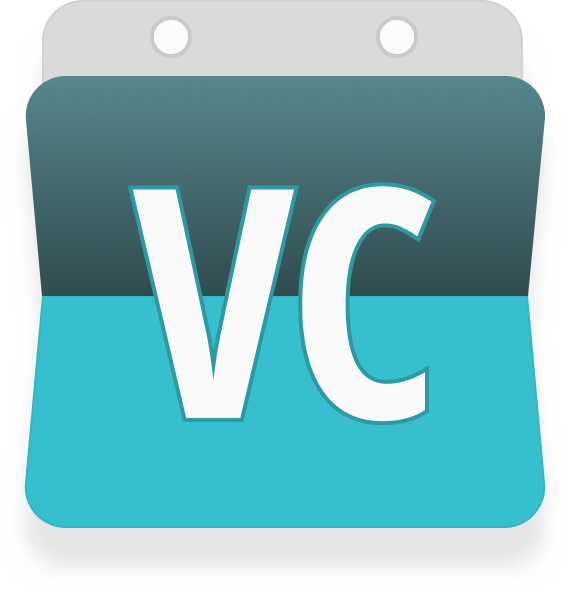
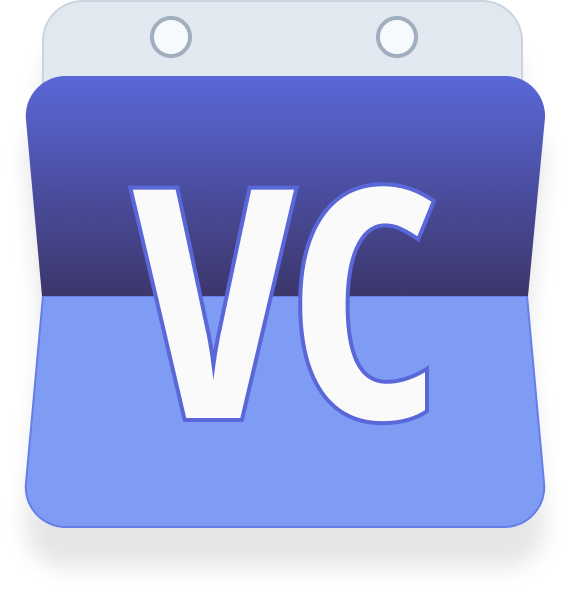
Change docs theme color to indigo.

diff --git a/docs/.vuepress/styles/tailwind.css b/docs/.vuepress/styles/tailwind.css
@@ -29,17 +29,30 @@ input[type='text'] {
   max-width: initial;
   padding: 3.6rem 0 2rem 0;
 }
+
+.site-name {
+  @apply text-indigo-700 !important;
+}
+
+.site-name:hover {
+  @apply text-indigo-500 !important;
+}
+
 .homepage .hero {
   @apply px-4;
 }
-.homepage .hero .img {
-  max-height: 240px;
+.homepage .hero img {
+  max-height: 190px !important;
 }
 
 .homepage .content {
   & div[class*='language-'] {
     @apply max-w-md mx-auto;
   }
+}
+
+.homepage .hero .action-button {
+  @apply px-6 py-2 !important;
 }
 
 .section {
@@ -65,18 +78,29 @@ ol {
   @apply list-decimal;
 }
 
-/* .sidebar-links {
-  & > li > .sidebar-link {
-  }
-} */
-
-/* .sidebar-group-items > li > .sidebar-sub-headers > .sidebar-sub-header {
-  @apply uppercase text-lg;
-} */
-
-@tailwind utilities;
-
 p {
   margin: 1rem 0;
   line-height: 1.7rem;
 }
+
+.sidebar {
+  @apply border-none !important;
+}
+
+.sidebar-heading {
+  @apply text-sm tracking-wide text-gray-500 uppercase pl-6 !important;
+}
+
+.sidebar-link {
+  @apply flex w-auto text-sm text-gray-600 font-medium ml-3 px-3 py-1 mt-1 !important;
+}
+
+.sidebar-link:hover {
+  @apply text-indigo-700 font-semibold !important;
+}
+
+.sidebar-link.active {
+  @apply text-indigo-700 font-semibold bg-indigo-100 border-l-4 border-indigo-500 rounded !important;
+}
+
+@tailwind utilities;
